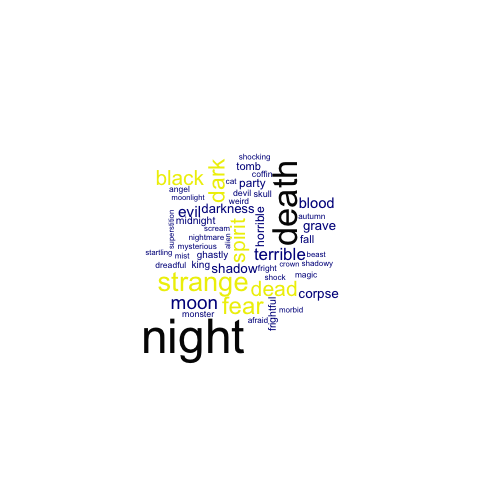
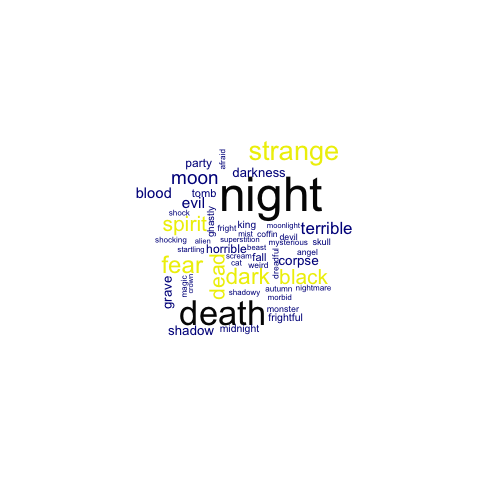
EDITS

Changed region(s): [[0.2812, 0.2812, 0.75, 0.7812]]

diff --git a/README.md b/README.md
@@ -15,30 +15,52 @@ Term: Spring 2018
 
 ### Learn about the three authors' linguistic and literary significance
 
+Defination of Discourse Marker -- A discourse marker is a word or phrase that plays a role in managing the flow and structure of discourse. Since their main function is at the level of discourse (sequences of utterances) rather than at the level of utterances or sentences, discourse markers are relatively syntax-independent and usually do not change the truth conditional meaning of the sentence. Examples of discourse markers include the particles oh, well, now, then, you know, and I mean, and the discourse connectives so, because, and, but, and or.
+
+From past studies, discourse markers account for the parameters of social class (Archer and Culpeper 2003), gender and directionality. It becomes clear that the direction of use reveals the interactive nature of discourse markers. I would like to analyze three authors' text here to study if they are different in use of discourse markers.
+
 First of all, I used the discourse_markers_alemany dataset from the lexicon package as reference. I matched the clean spooky data with this dataset.
 
-I found that each author's use of discourse markers and three authors' total uses of discourse markers (wordcloud) were calculated.
+Each author's use of discourse markers and three authors' total uses of discourse markers (wordcloud) were calculated.
 
 ![image](figs/ndm.png)
 ![image](figs/Worldcloud_ndm.png)
 
-From both graphs, three authors used similar numbers of discourse markers. "and" is the marker all of them used most frequently. Edgar Allan Poe used more "a" and "in" in text than the other authors. 
+From both graphs, three authors used similar numbers of discourse markers. "and" is the marker all of them used most frequently. Edgar Allan Poe used more "a" and "in" in text than the other authors. Nevertheless, since the three authors' uses of discourse markers are very similar, I am unable to conclude any significance of their uses of discourse markers.
 
-However, it's hard to conclude anything significant from this finding, so I decided to focus more on special literary aspects that we often can find in horror stories.
+Next, I decided to focus more on special literary aspects that we often can find in horror stories.
 
 ## Which author used more supernatural elements and horror vocabulary?
 
 I thought it might be more interesting to look at each author's use of horror vocabulary in their text rather than grammar to analyze their styles. 
 
-I found a horror words list from (http://www.enchantedlearning.com/wordlist/halloween.shtml), which contains 205 horror words. Then, I matched this words list with my dataset to find which author used more horror words in writing.
+I found a horror words list from (http://www.enchantedlearning.com/wordlist/halloween.shtml), which contains 205 horror words. 
+
+Here is a head() view of the first 6 elements from the horror words list:
+  vocab
+1	afraid			
+2	afterlife			
+3	alarming			
+4	alien			
+5	angel			
+6	apparition
+
+
+Then, I matched this horror words list with my spooky dataset to find which author used more horror words in writing.
 
 ![image](figs/horror.png)
 
 The graph shows that H.P. Lovecraft used more horror vocabulary than the other two authors. Edgar Allan Poe and Mary Shelley used almost same amount of horror vocabulary.
 
+I also made a wordcloud of the most frequently used horror words by the three authors. 
 ![image](figs/Worldcloud_horror.png)
 
-I also made a wordcloud of the most frequently used horror words by the three authors. It shows that "night" and "death" are used most frequently by the three authors. "strange", "dead", "fear" and "spirit" are the second most frequently used group of words.
+It shows that "night" and "death" are used most frequently by the three authors. "strange", "dead", "fear" and "spirit" are the second most frequently used group of words.
+
+If we take a closer look at the most frequently used horror words by each author.
+
+EAP: ![image](figs/Worldcloud_horrorE.png) HPL: ![image](figs/Worldcloud_horrorH.png) MWS: ![image](figs/Worldcloud_horrorM.png)
+
 
 ## Poe's words
 
